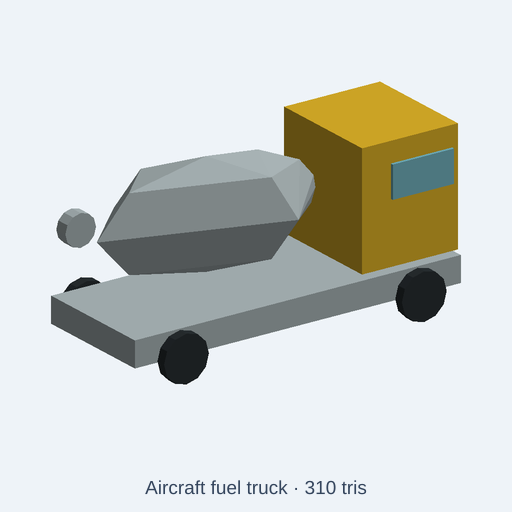
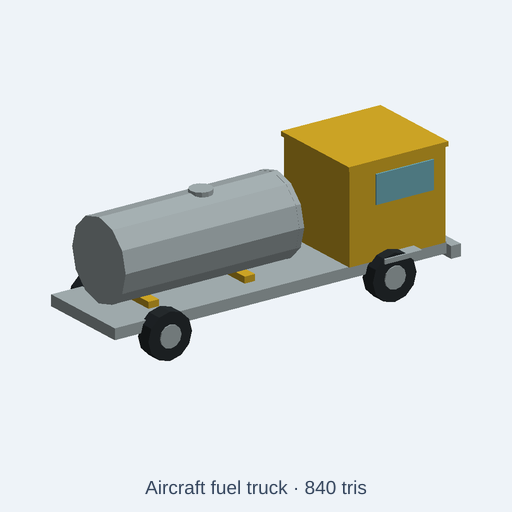
fix(catalog): improve airfield asset geometry at real-world scale

Changed region(s): [[0.0938, 0.1562, 0.9062, 0.75], [0.5938, 0.9375, 0.6562, 0.9688]]

diff --git a/tests/integration/catalog/airfieldAssetFidelity.test.ts b/tests/integration/catalog/airfieldAssetFidelity.test.ts
@@ -1,0 +1,70 @@
+// SPDX-License-Identifier: MIT
+// Copyright (c) 2026 Andrii Shylenko and kernelCAD contributors
+
+import { readFileSync } from 'node:fs';
+import { basename, dirname, resolve } from 'node:path';
+import { beforeAll, describe, expect, it } from 'vitest';
+import { initOcct } from '../../../src/kernel/backends/occt/occtBackend';
+import { buildCatalogAssetWithGlb } from '../../../src/agent/catalog/buildCatalog';
+import { runAndExport } from '../../../src/agent/script-runtime/export';
+import { sourceWithParamValues } from '../../../scripts/buildCatalogDownloads';
+
+const repoRoot = resolve(import.meta.dirname, '../../..');
+const cases = [
+  { id: 'aircraft-fuel-truck', size: [7.81, 2.87, 2.74], features: ['tanker', 'hose-reel', 'cab-windscreen', 'axle--2720', 'wheel-2420-1'] },
+  { id: 'aircraft-hangar', size: [22.249152, 10.18, 18.8], features: ['rear-gable', 'left-roof', 'right-roof', 'door-header', 'column-1--8800'] },
+  { id: 'aircraft-maintenance-lift', size: [4.3, 4.805, 2.5], features: ['upper-platform', 'scissor-ascending--1', 'scissor-descending-1', 'end-pivot-3540-1500', 'side-rail-1-4770'] },
+] as const;
+
+beforeAll(async () => { await initOcct(); }, 120_000);
+
+function glbMetadata(bytes: Uint8Array): { stats: { minUpM: number; triangles: number; sizeM: number[] }; palette: Array<{ color: string; parts: string[] }> } {
+  const view = new DataView(bytes.buffer, bytes.byteOffset, bytes.byteLength);
+  return JSON.parse(new TextDecoder().decode(bytes.subarray(20, 20 + view.getUint32(12, true)))).asset.extras.kernelcad;
+}
+
+describe('airfield assets retain real-scale geometry and working controls', () => {
+  it.each(cases)('$id: default, STEP, scale limits and both palettes', async ({ id, size, features }) => {
+    const source = 'catalog/kits/airfield/' + id + '.kcad.ts';
+    const fullPath = resolve(repoRoot, source);
+    const code = readFileSync(fullPath, 'utf8');
+    const { asset } = await buildCatalogAssetWithGlb(repoRoot, source);
+    expect(asset.stats.minUpM).toBeCloseTo(0, 6);
+    expect(asset.stats.materials).toBe(1);
+    expect(asset.stats.triangles).toBeLessThanOrEqual(asset.triangleBudget);
+    asset.stats.sizeM.forEach((value, i) => expect(value).toBeCloseTo(size[i]!, 3));
+    expect(asset.palette.flatMap((zone) => zone.parts)).toEqual(expect.arrayContaining([...features]));
+    const script = { fileName: basename(fullPath), scriptDir: dirname(fullPath) };
+    const step = await runAndExport({ ...script, code, format: 'step' });
+    expect(step.diagnostics.filter((d) => d.severity === 'error')).toEqual([]);
+    expect(new TextDecoder().decode(step.bytes.subarray(0, 15))).toContain('ISO-10303-21');
+    for (const scale of [0.65, 1.35]) {
+      const result = await runAndExport({
+        ...script, code: sourceWithParamValues(code, { scale }, fullPath), format: 'glb',
+        options: { format: 'glb', style: 'lowpoly', lowpoly: { maxTriangles: asset.triangleBudget } },
+      });
+      expect(result.diagnostics.filter((d) => d.severity === 'error')).toEqual([]);
+      const stats = glbMetadata(result.bytes).stats;
+      expect(stats.minUpM).toBeCloseTo(0, 6);
+      expect(stats.triangles).toBeLessThanOrEqual(asset.triangleBudget);
+      for (let i = 0; i < 3; i++) expect(stats.sizeM[i]).toBeCloseTo(size[i]! * scale, 3);
+    }
+    for (const [name, values] of Object.entries(asset.presets)) {
+      const result = await runAndExport({
+        ...script, code: sourceWithParamValues(code, values, fullPath), format: 'glb',
+        options: { format: 'glb', style: 'lowpoly', lowpoly: { maxTriangles: asset.triangleBudget } },
+      });
+      expect(result.diagnostics.filter((d) => d.severity === 'error'), name).toEqual([]);
+      const meta = glbMetadata(result.bytes);
+      expect(meta.stats.triangles).toBeLessThanOrEqual(asset.triangleBudget);
+      expect(meta.stats.minUpM).toBeCloseTo(0, 6);
+      for (const zone of asset.palette) {
+        const expectedColor = String(values[zone.name]).toLowerCase();
+        for (const part of zone.parts) {
+          const rendered = meta.palette.find((candidate) => candidate.parts.includes(part));
+          expect(rendered?.color.toLowerCase(), part).toBe(expectedColor);
+        }
+      }
+    }
+  }, 120_000);
+});

diff --git a/catalog/kits/airfield/aircraft-fuel-truck.kcad.ts b/catalog/kits/airfield/aircraft-fuel-truck.kcad.ts
@@ -33,16 +33,35 @@ presets({
   },
 });
 const p = assembly("aircraft-fuel-truck");
-p.part("chassis", box(552.5, 202.4, 42, true).translate(0, 0, 56).scale(scale).color(stainlessSteel));
-p.part("cab", box(162.5, 188.6, 189, true).translate(195, 0, 177.5).scale(scale).color(vehiclePaint));
-p.part("cab-windscreen", box(5, 135.79, 52.92, true).translate(278.50, 0.00, 211.52).scale(scale).color(windshieldGlass));
-p.part("cab-side-window-left", box(104.0, 5, 52.92, true).translate(214.50, -96.55, 211.52).scale(scale).color(windshieldGlass));
-p.part("cab-side-window-right", box(104.0, 5, 52.92, true).translate(214.50, 96.55, 211.52).scale(scale).color(windshieldGlass));
-p.part("tanker", sphere(105.8).scale([1.752, 1, 0.82]).translate(-84.5, 0, 188.5).scale(scale).color(stainlessSteel));
-p.part("hose-reel", cylinder(22, 26, 8).rotate([1, 0, 0], 90).translate(-227.5, 121.4, 164).scale(scale).color(stainlessSteel));
-p.part("wheel-1-left", cylinder(16, 38, 8).rotate([1, 0, 0], 90).translate(-201.5, -103.6, 38).scale(scale).color(rubber));
-p.part("wheel-1-right", cylinder(16, 38, 8).rotate([1, 0, 0], 90).translate(-201.5, 135.6, 38).scale(scale).color(rubber));
-p.part("wheel-2-left", cylinder(16, 38, 8).rotate([1, 0, 0], 90).translate(201.5, -103.6, 38).scale(scale).color(rubber));
-p.part("wheel-2-right", cylinder(16, 38, 8).rotate([1, 0, 0], 90).translate(201.5, 135.6, 38).scale(scale).color(rubber));
-
+// Original generic apron refueller, dimensions in mm, cab faces +X.
+p.part("chassis", box(7600, 2080, 240, true).translate(0, 0, 700).scale(scale).color(stainlessSteel));
+p.part("cab", box(2200, 2150, 1950, true).translate(2650, 0, 1795).scale(scale).color(vehiclePaint));
+p.part("cab-roof", box(2280, 2220, 100, true).translate(2650, 0, 2820).scale(scale).color(vehiclePaint));
+p.part("cab-windscreen", box(45, 1850, 680, true).translate(3770, 0, 2270).scale(scale).color(windshieldGlass));
+p.part("cab-side-window-left", box(1320, 40, 620, true).translate(2800, -1090, 2270).scale(scale).color(windshieldGlass));
+p.part("cab-side-window-right", box(1320, 40, 620, true).translate(2800, 1090, 2270).scale(scale).color(windshieldGlass));
+p.part("front-bumper", box(220, 2400, 260, true).translate(3900, 0, 650).scale(scale).color(stainlessSteel));
+p.part("radiator-grille", box(55, 1180, 350, true).translate(3775, 0, 1290).scale(scale).color(rubber));
+p.part("tanker", cylinder(3980, 870, 12).rotate([0, 1, 0], 90).translate(-3380, 0, 1770).scale(scale).color(stainlessSteel));
+for (const x of [-3380, 600]) {
+  p.part("tank-end-" + x, cylinder(110, 875, 12).rotate([0, 1, 0], 90).translate(x - 55, 0, 1770).scale(scale).color(stainlessSteel));
+}
+for (const x of [-2600, -400]) {
+  p.part("saddle-" + x, box(240, 1200, 160, true).translate(x, 0, 880).scale(scale).color(vehiclePaint));
+}
+p.part("fill-hatch", cylinder(100, 240, 10).translate(-1100, 0, 2590).scale(scale).color(stainlessSteel));
+p.part("hose-cabinet", box(1120, 410, 800, true).translate(-2400, 1010, 1190).scale(scale).color(vehiclePaint));
+p.part("hose-reel", cylinder(190, 295, 12).rotate([1, 0, 0], 90).translate(-2400, 1390, 1190).scale(scale).color(rubber));
+for (const x of [-2720, 2420]) {
+  p.part("axle-" + x, cylinder(2200, 100, 8).rotate([1, 0, 0], 90).translate(x, 1100, 500).scale(scale).color(stainlessSteel));
+  for (const side of [-1, 1]) {
+    const y = side * 1140;
+    p.part("wheel-" + x + "-" + side, cylinder(340, 500, 12).rotate([1, 0, 0], 90).translate(x, y + 170, 500).scale(scale).color(rubber));
+    p.part("hub-" + x + "-" + side, cylinder(55, 240, 10).rotate([1, 0, 0], 90).translate(x, y + side * 170 + 27.5, 500).scale(scale).color(stainlessSteel));
+  }
+}
+for (const side of [-1, 1]) {
+  p.part("headlamp-" + side, box(65, 330, 240, true).translate(3780, side * 790, 1290).scale(scale).color(windshieldGlass));
+  p.part("step-" + side, box(850, 300, 100, true).translate(2600, side * 1200, 880).scale(scale).color(stainlessSteel));
+}
 return p.model();

diff --git a/catalog/kits/airfield/aircraft-maintenance-lift.kcad.ts b/catalog/kits/airfield/aircraft-maintenance-lift.kcad.ts
@@ -30,16 +30,35 @@ presets({
   },
 });
 const p = assembly("aircraft-maintenance-lift");
-p.part("chassis", box(365.5, 184.8, 42, true).translate(0, 0, 56).scale(scale).color(powderCoat));
-p.part("lower-platform", box(301, 163.8, 28, true).translate(0, 0, 58).scale(scale).color(galvanizedSteel));
-p.part("scissor-arm-left", box(499.2, 18, 18, true).rotate([0, 1, 0], 50).translate(0, 0, 261.6).scale(scale).color(powderCoat));
-p.part("scissor-arm-right", box(499.2, 18, 18, true).rotate([0, 1, 0], -50).translate(0, 0, 261.6).scale(scale).color(powderCoat));
-p.part("scissor-pivot", cylinder(24, 18, 8).rotate([1, 0, 0], 90).translate(0, 12, 261.6).scale(scale).color(powderCoat));
-p.part("upper-platform", box(292.4, 163.8, 20, true).translate(0, 0, 459.2).scale(scale).color(galvanizedSteel));
-p.part("guardrail-front", box(12, 163.8, 76, true).translate(137.6, 0, 501.2).scale(scale).color(galvanizedSteel));
-p.part("wheel-1-left", cylinder(16, 38, 8).rotate([1, 0, 0], 90).translate(-133.3, -93.2, 38).scale(scale).color(rubber));
-p.part("wheel-1-right", cylinder(16, 38, 8).rotate([1, 0, 0], 90).translate(-133.3, 125.2, 38).scale(scale).color(rubber));
-p.part("wheel-2-left", cylinder(16, 38, 8).rotate([1, 0, 0], 90).translate(133.3, -93.2, 38).scale(scale).color(rubber));
-p.part("wheel-2-right", cylinder(16, 38, 8).rotate([1, 0, 0], 90).translate(133.3, 125.2, 38).scale(scale).color(rubber));
-
+// Generic mobile maintenance platform, extended configuration in mm.
+p.part("chassis", box(4300, 2100, 360, true).translate(0, 0, 650).scale(scale).color(powderCoat));
+p.part("lower-platform", box(3400, 1760, 150, true).translate(0, 0, 870).scale(scale).color(galvanizedSteel));
+for (const side of [-1, 1]) {
+  const y = side * 700;
+  p.part("scissor-ascending-" + side, box(4010, 120, 170, true).rotate([0, 1, 0], -41.987).translate(0, y - 75, 2200).scale(scale).color(powderCoat));
+  p.part("scissor-descending-" + side, box(4010, 120, 170, true).rotate([0, 1, 0], 41.987).translate(0, y + 75, 2200).scale(scale).color(powderCoat));
+}
+for (const z of [860, 3540]) {
+  for (const x of [-1500, 1500]) {
+    p.part("end-pivot-" + z + "-" + x, cylinder(1760, 95, 10).rotate([1, 0, 0], 90).translate(x, 880, z).scale(scale).color(galvanizedSteel));
+  }
+}
+p.part("scissor-pivot", cylinder(1760, 125, 10).rotate([1, 0, 0], 90).translate(0, 880, 2200).scale(scale).color(galvanizedSteel));
+p.part("upper-platform", box(3500, 1900, 180, true).translate(0, 0, 3620).scale(scale).color(galvanizedSteel));
+for (const side of [-1, 1]) {
+  for (const x of [-1660, 0, 1660]) {
+    p.part("guard-post-" + side + "-" + x, box(70, 70, 1100, true).translate(x, side * 880, 4250).scale(scale).color(galvanizedSteel));
+  }
+  for (const z of [4250, 4770]) {
+    p.part("side-rail-" + side + "-" + z, box(3390, 70, 70, true).translate(0, side * 880, z).scale(scale).color(galvanizedSteel));
+    p.part("end-rail-" + side + "-" + z, box(70, 1760, 70, true).translate(side * 1660, 0, z).scale(scale).color(galvanizedSteel));
+  }
+  p.part("toe-board-" + side, box(3390, 60, 150, true).translate(0, side * 900, 3785).scale(scale).color(galvanizedSteel));
+}
+for (const x of [-1550, 1550]) {
+  p.part("axle-" + x, cylinder(2100, 100, 8).rotate([1, 0, 0], 90).translate(x, 1050, 420).scale(scale).color(galvanizedSteel));
+  for (const side of [-1, 1]) {
+    p.part("wheel-" + x + "-" + side, cylinder(300, 420, 12).rotate([1, 0, 0], 90).translate(x, side * 1100 + 150, 420).scale(scale).color(rubber));
+  }
+}
 return p.model();

diff --git a/catalog/kits/airfield/aircraft-hangar.kcad.ts b/catalog/kits/airfield/aircraft-hangar.kcad.ts
@@ -30,11 +30,25 @@ presets({
   },
 });
 const p = assembly("aircraft-hangar");
-p.part("left-wall", box(24, 540, 300, true).translate(-330, 0, 150).scale(scale).color(cladding));
-p.part("right-wall", box(24, 540, 300, true).translate(330, 0, 150).scale(scale).color(cladding));
-p.part("rear-wall", box(660, 24, 300, true).translate(0, 258, 150).scale(scale).color(concrete));
-p.part("roof", path().moveTo(-350, 300).lineTo(0, 392).lineTo(350, 300).lineTo(350, 282).lineTo(-350, 282).close().extrude(600).rotateX(90).translate(0, 300, 0).scale(scale).color(roofMetal));
-p.part("ridge", box(24, 600, 20, true).translate(0, 0, 397).scale(scale).color(roofMetal));
-p.part("door-header", box(510, 28, 36, true).translate(0, -274, 282).scale(scale).color(roofMetal));
-
+// Generic 22 m apron hangar: unobstructed front opening and pitched roof.
+p.part("left-wall", box(220, 18000, 7000, true).translate(-10900, 0, 3500).scale(scale).color(cladding));
+p.part("right-wall", box(220, 18000, 7000, true).translate(10900, 0, 3500).scale(scale).color(cladding));
+p.part("rear-wall", box(22000, 220, 7000, true).translate(0, 8900, 3500).scale(scale).color(cladding));
+p.part("rear-gable", path().moveTo(-11000, 7000).lineTo(0, 10000).lineTo(11000, 7000).close().extrude(220).rotateX(90).translate(0, 9010, 0).scale(scale).color(cladding));
+p.part("left-roof", box(11600, 18800, 220, true).rotate([0, 1, 0], -15.255).translate(-5500, 0, 8500).scale(scale).color(roofMetal));
+p.part("right-roof", box(11600, 18800, 220, true).rotate([0, 1, 0], 15.255).translate(5500, 0, 8500).scale(scale).color(roofMetal));
+p.part("ridge", box(400, 18800, 220, true).translate(0, 0, 10070).scale(scale).color(roofMetal));
+p.part("door-header", box(21600, 420, 600, true).translate(0, -8790, 6750).scale(scale).color(roofMetal));
+for (const side of [-1, 1]) {
+  for (const y of [-8800, -4400, 0, 4400, 8800]) {
+    p.part("column-" + side + "-" + y, box(400, 360, 7000, true).translate(side * 10650, y, 3500).scale(scale).color(concrete));
+  }
+  for (const y of [-6750, -2250, 2250, 6750]) {
+    p.part("wall-seam-" + side + "-" + y, box(90, 100, 7000, true).translate(side * 11015, y, 3500).scale(scale).color(roofMetal));
+  }
+}
+for (const y of [-8800, -4400, 0, 4400, 8800]) {
+  p.part("left-rafter-" + y, box(11400, 230, 250, true).rotate([0, 1, 0], -15.255).translate(-5500, y, 8320).scale(scale).color(concrete));
+  p.part("right-rafter-" + y, box(11400, 230, 250, true).rotate([0, 1, 0], 15.255).translate(5500, y, 8320).scale(scale).color(concrete));
+}
 return p.model();
